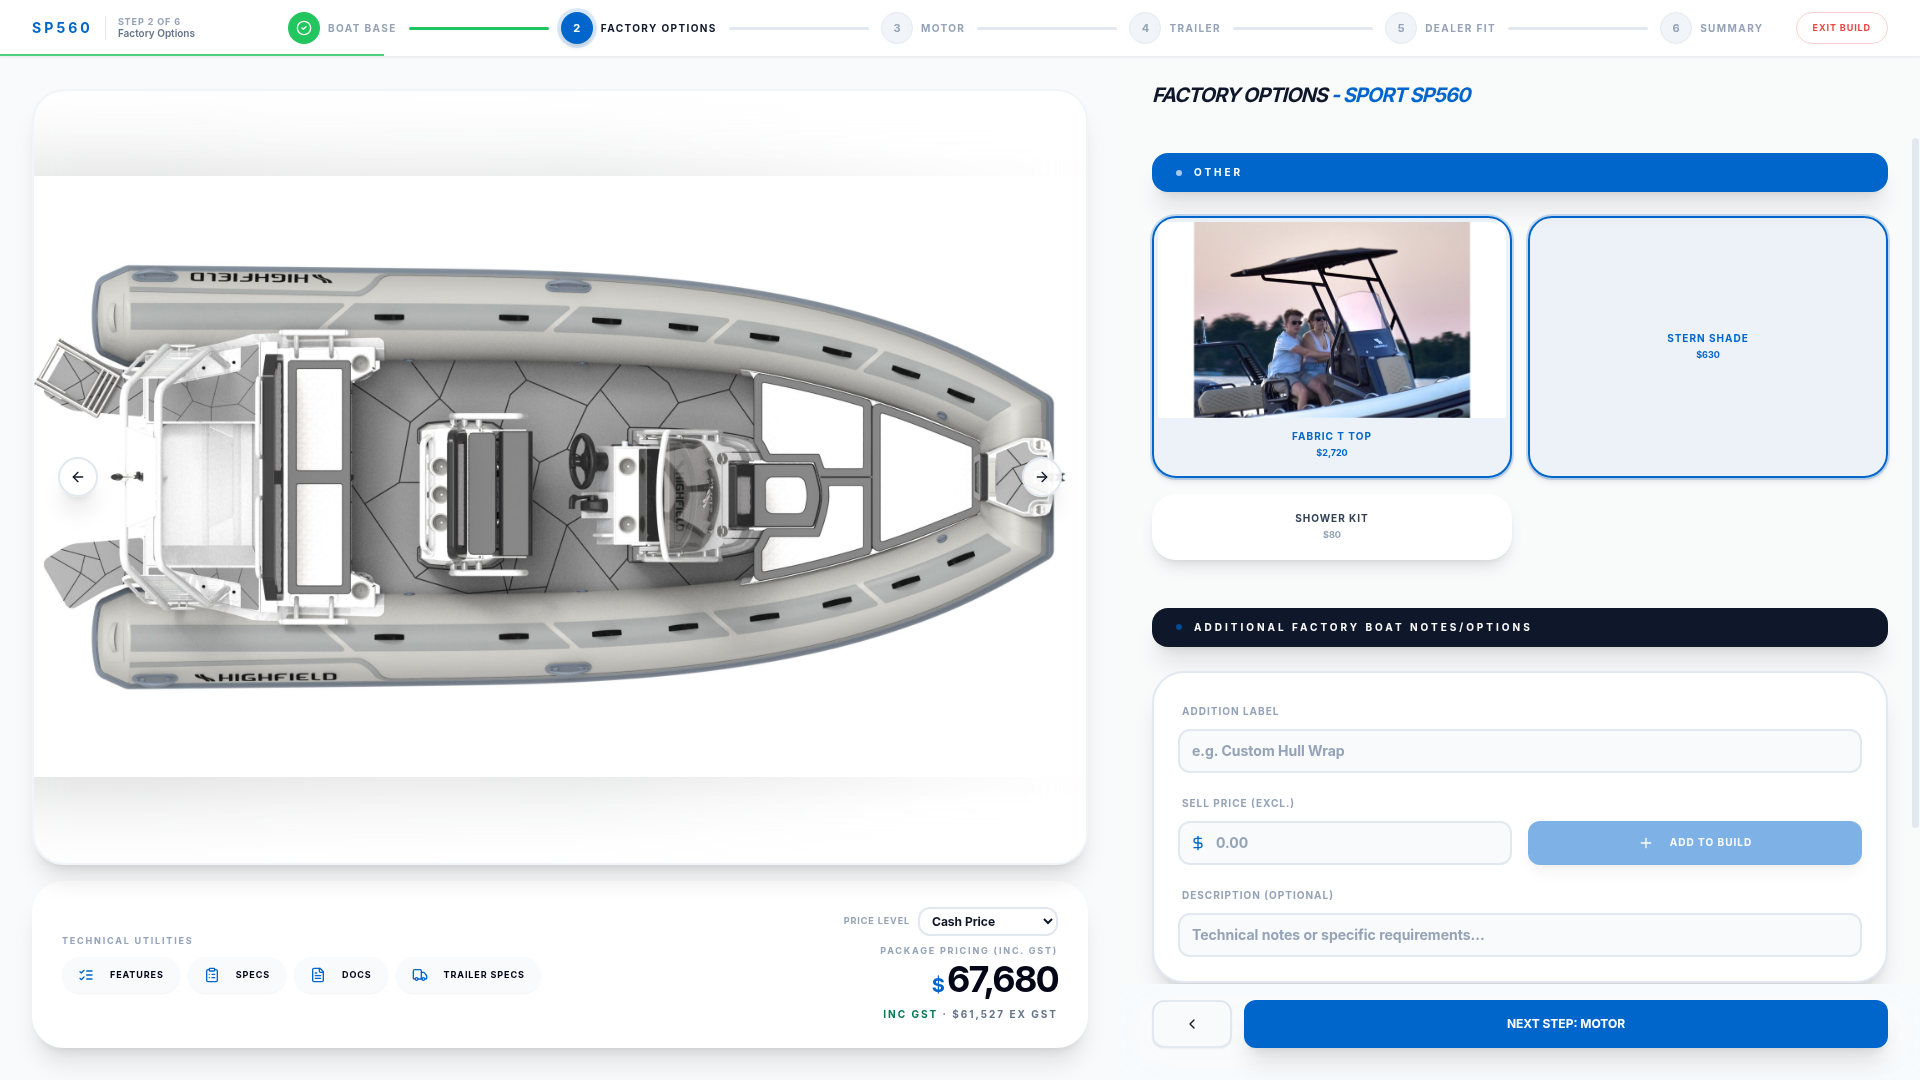
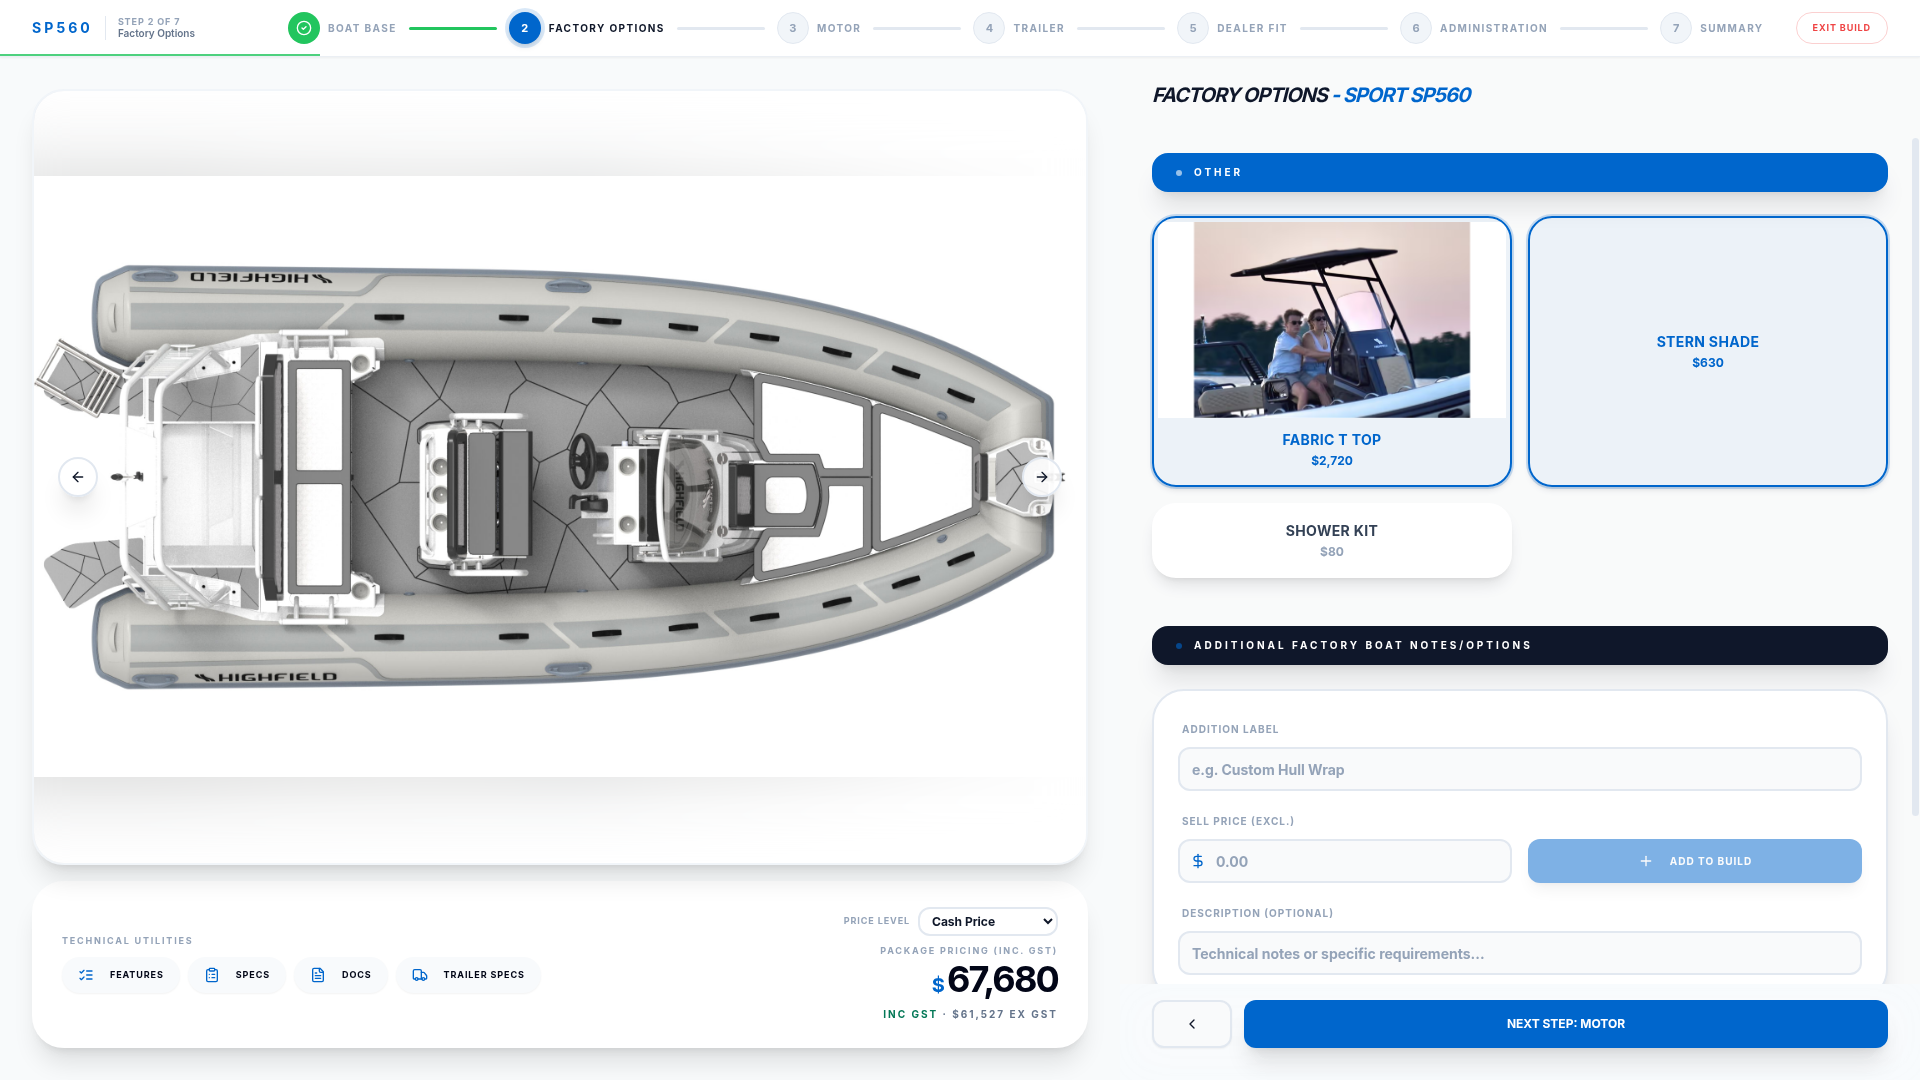
test(v1.33): update quote-flow specs for the 7-step flow
The new Administration step (6) pushes Summary to step 7 — every spec
that walked Dealer Fit -> Summary with a single Next Step click now
hops through Administration first (ffr33-sp560-proof, bm-email-checklist
x2, smoke, cl380-fully-specced, ultimate-test, highfield-walkthrough,
sp560-full-quote, allbrands-quote); critical-paths advance loop bumped
to 6 clicks; walkthrough's STEP-N-OF-6 indicator regex generalised.

Claude-Session: https://claude.ai/code/session_01N8htvKjvX1mxB76joJ9QQg

diff --git a/tests/highfield-walkthrough.spec.ts b/tests/highfield-walkthrough.spec.ts
@@ -403,9 +403,9 @@ async function nextStep(page: Page, settleMs: number) {
     await page.locator('button:has-text("Next Step"), button:has-text("Summary")').first().click({ force: true });
     await page.waitForTimeout(settleMs);
 }
-/** Read the "STEP N OF 6" indicator so asserts never run against the wrong step. */
+/** Read the "STEP N OF M" indicator so asserts never run against the wrong step. */
 async function stepNo(page: Page): Promise<number | null> {
-    const t = await page.locator('text=/STEP \\d+ OF 6/i').first().innerText({ timeout: 4000 }).catch(() => '');
+    const t = await page.locator('text=/STEP \\d+ OF \\d+/i').first().innerText({ timeout: 4000 }).catch(() => '');
     const m = t.match(/STEP\s+(\d+)/i);
     return m ? parseInt(m[1], 10) : null;
 }
@@ -958,11 +958,12 @@ async function walkModel(page: Page, rg: any, master: any, res: ModelResult) {
         }
     }
 
-    /* -------------- Step 6 — summary lines + sum of picks -------------- */
-    await nextStep(page, 3500);
+    /* -------------- Step 6 Administration (v1.33) → Step 7 — summary lines + sum of picks -------------- */
+    await nextStep(page, 2000); // Administration (new v1.33)
+    await nextStep(page, 3500); // Summary
     res.steps.s6 = 'pass';
     pa.s6_summary = { checked: 0, failed: 0 };
-    if ((await stepNo(page)) !== 6) { res.steps.s6 = 'fail'; fail('s6', 'not on STEP 6 OF 6 after Next'); await shot('s6-step'); }
+    if ((await stepNo(page)) !== 7) { res.steps.s6 = 'fail'; fail('s6', 'not on STEP 7 (Summary) after Next'); await shot('s6-step'); }
     const vPrice = getPriceForLevel(activeVariant);
     pa.s6_summary.checked++;
     const baseLine = `$${vPrice.toLocaleString('en-US')}`;

diff --git a/tests/ffr33-sp560-proof.spec.ts b/tests/ffr33-sp560-proof.spec.ts
@@ -191,9 +191,12 @@ test.describe('FFR-33 — SP560 Display-Sheet parity proof', () => {
         await page.screenshot({ path: `${SHOTS}/total.png` });
         expect(Math.abs(total - EXPECTED_INC), 'inc-GST package within $5 of the Display-Sheet composition').toBeLessThanOrEqual(5);
 
-        // ── Step 6 → Finalize → customer PDF (the deliverable for Mark) ──
+        // ── Step 6 (Administration, new in v1.33) → Step 7 Summary →
+        //    Finalize → customer PDF (the deliverable for Mark) ──
         await clickNext(page);
-        await page.screenshot({ path: `${SHOTS}/s6-summary.png`, fullPage: true });
+        await page.screenshot({ path: `${SHOTS}/s6-administration.png`, fullPage: true });
+        await clickNext(page);
+        await page.screenshot({ path: `${SHOTS}/s7-summary.png`, fullPage: true });
         await page.locator('button:has-text("Finalize Project"), button:has-text("Finalize")').first().click({ force: true });
         await page.waitForTimeout(2000);
         await page.locator('#cust-name, input[placeholder="John Smith"]').first().fill('SP560 Display-Sheet Proof');

diff --git a/tests/sp560-full-quote.spec.ts b/tests/sp560-full-quote.spec.ts
@@ -90,13 +90,13 @@ test('SP560 maximal full quote (1920)', async ({ page }) => {
   // already auto-assigned (size-matched Dunbier) with its standard
   // options pre-ticked; clicking every card would jump to a wrong
   // trailer (e.g. a PA600 unit) with coded option names.
-  const names = ['s2-factory-options', 's3-motor', 's4-trailer', 's5-dealerfit-fitup', 's6-summary'];
+  const names = ['s2-factory-options', 's3-motor', 's4-trailer', 's5-dealerfit-fitup', 's6-administration', 's7-summary'];
   for (const nm of names) {
     const next = page.locator('button:has-text("Next Step")').first();
     if (!(await next.isVisible().catch(() => false))) break;
     await next.click().catch(() => {});
     await page.waitForTimeout(2800);
-    if (nm !== 's6-summary' && nm !== 's4-trailer') await clickAllCards(nm);
+    if (nm !== 's7-summary' && nm !== 's6-administration' && nm !== 's4-trailer') await clickAllCards(nm);
     await shot(nm);
   }
 

diff --git a/tests/ultimate-test.spec.ts b/tests/ultimate-test.spec.ts
@@ -227,10 +227,13 @@ test('ULTIMATE: SP560 PVC W-W-WB — MPF-identical quote', async ({ page }) => {
   console.log('  dealer fit:', notes['df-tubeCovers'], '|', notes['df-vhf']);
   await shot('hl-step5-dealerfit', true);
 
-  // ── STEP 6: summary ──
+  // ── STEP 6: Administration (new v1.33) → STEP 7: summary ──
+  await page.locator('button:has-text("Next Step")').first().click({ force: true });
+  await page.waitForTimeout(2000);
+  await shot('hl-step6-administration', true);
   await page.locator('button:has-text("Next Step")').first().click({ force: true });
   await page.waitForTimeout(4000);
-  await shot('hl-step6-summary', true);
+  await shot('hl-step7-summary', true);
 
   // Extract the whole summary text + the headline totals.
   const summaryText = await page.evaluate(() => document.body.innerText);

diff --git a/tests/smoke.spec.ts b/tests/smoke.spec.ts
@@ -71,10 +71,13 @@ test('smoke: fit-up captures + PDF size', async ({ page }) => {
     console.log('  ⚠ No fit-up section visible');
   }
 
-  // Advance to summary
+  // Advance through Administration (new v1.33 step) to Summary
+  await page.locator('button:has-text("Next Step")').first().click({ force: true });
+  await page.waitForTimeout(2000);
+  await shot('step6-administration');
   await page.locator('button:has-text("Next Step")').first().click({ force: true });
   await page.waitForTimeout(3000);
-  await shot('step6-summary');
+  await shot('step7-summary');
 
   // Finalize
   await page.locator('button:has-text("Finalize Project"), button:has-text("Finalize")').first().click({ force: true });

diff --git a/tests/bm-email-checklist-sport.spec.ts b/tests/bm-email-checklist-sport.spec.ts
@@ -240,7 +240,9 @@ test("Mark's checklist — Sport end-to-end (SP600 / SP560)", async ({ page }) =
     expect(riggingMarker, 'Picking Medium should reveal fit-up + rigging selections').toBeGreaterThan(0);
     ticks['4-rigging-step5'] = true;
 
-    // ── Step 6: Summary ──
+    // ── Step 6 (Administration, new in v1.33) → Step 7: Summary ──
+    await page.locator('button:has-text("Next Step"), button:has-text("Administration")').first().click({ force: true });
+    await page.waitForTimeout(1500);
     await page.locator('button:has-text("Next Step"), button:has-text("Summary")').first().click({ force: true });
     await page.waitForTimeout(4500);
     await shot('s6-summary', true);

diff --git a/tests/bm-email-checklist.spec.ts b/tests/bm-email-checklist.spec.ts
@@ -232,7 +232,9 @@ test("Mark's checklist — 8/8 items pass end-to-end", async ({ page }) => {
     expect(riggingMarker, 'Picking Medium should reveal fit-up + rigging selections').toBeGreaterThan(0);
     ticks['4-rigging-step5'] = true;
 
-    // ── Step 6: Summary ──
+    // ── Step 6 (Administration, new in v1.33) → Step 7: Summary ──
+    await page.locator('button:has-text("Next Step"), button:has-text("Administration")').first().click({ force: true });
+    await page.waitForTimeout(1500);
     await page.locator('button:has-text("Next Step"), button:has-text("Summary")').first().click({ force: true });
     await page.waitForTimeout(4500);
     await shot('s6-summary', true);

diff --git a/tests/cl380-fully-specced.spec.ts b/tests/cl380-fully-specced.spec.ts
@@ -98,10 +98,13 @@ test('CL380 fully specced', async ({ page }) => {
     }
   }
 
-  // Step 6 summary
+  // Step 6 Administration (new v1.33) then Step 7 summary
+  await page.locator('button:has-text("Next Step")').first().click({ force: true });
+  await page.waitForTimeout(2000);
+  await shot('s07-administration', true);
   await page.locator('button:has-text("Next Step")').first().click({ force: true });
   await page.waitForTimeout(3500);
-  await shot('s07-summary', true);
+  await shot('s07b-summary', true);
 
   // Finalize
   await page.locator('button:has-text("Finalize Project")').first().click({ force: true });

diff --git a/tests/critical-paths.spec.ts b/tests/critical-paths.spec.ts
@@ -143,8 +143,8 @@ test.describe('Critical Paths (Smoke)', () => {
       await page.waitForTimeout(4000);
     }
 
-    // Attempt to advance through the steps by clicking "Next Step" up to 5 times.
-    for (let i = 0; i < 5; i++) {
+    // Attempt to advance through the steps by clicking "Next Step" up to 6 times (7 steps since v1.33).
+    for (let i = 0; i < 6; i++) {
       const nextBtn = page.locator('button:has-text("Next Step")').first();
       const visible = await nextBtn.isVisible().catch(() => false);
       if (!visible) break;

diff --git a/tests/allbrands-quote.spec.ts b/tests/allbrands-quote.spec.ts
@@ -152,7 +152,8 @@ async function driveBrandQuote(page: Page, opts: {
     expect(onDealerFit, `${opts.brand}: Step 5 Dealer Fit must mount`).toBe(true);
     await shot(page, `${opts.shotPrefix}-step5`);
 
-    // ── Step 6: summary totals compute ──
+    // ── Step 6 Administration (v1.33) → Step 7: summary totals compute ──
+    await nextStep(page);
     await nextStep(page);
     bodyNow = (await page.locator('body').innerText()).replace(/\s+/g, ' ');
     const onSummary = /Summary|Finalize Project/i.test(bodyNow);
